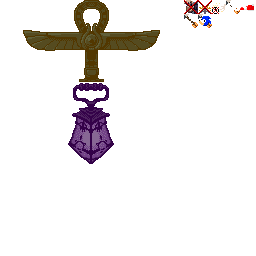
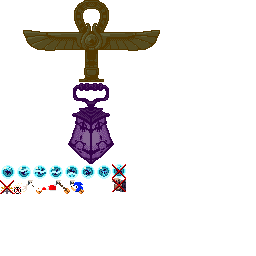
Added sprite for TeleporterOrb

Changed region(s): [[0.0, 0.625, 0.5, 0.7812], [0.7188, 0.0, 0.9062, 0.125], [0.9062, 0.0, 1.0, 0.0625]]

diff --git a/BartizanMod/BartizanModModule.cs b/BartizanMod/BartizanModModule.cs
@@ -15,6 +15,7 @@ namespace BartizanMod;
 public class BartizanModModule : FortModule, ITowerPatcher
 {
     public static Atlas BartizanAtlas;
+    public static SpriteData BartizanData;
     public static BartizanModModule Instance;
 
     public override Type SettingsType => typeof(BartizanModSettings);
@@ -30,6 +31,7 @@ public class BartizanModModule : FortModule, ITowerPatcher
     public override void LoadContent()
     {
         BartizanAtlas = Content.LoadAtlas("Atlas/atlas.xml", "Atlas/atlas.png");
+        BartizanData = Content.LoadSpriteData("Atlas/SpriteData/spriteData.xml", BartizanAtlas);
     }
 
     public override void OnVariantsRegister(VariantManager manager, bool noPerPlayer = false) 
@@ -47,7 +49,7 @@ public class BartizanModModule : FortModule, ITowerPatcher
 
         manager.AddPickupVariant(
             RiseCore.PickupRegistry["Bartizan/TeleporterOrb"], 
-            VariantManager.GetVariantIconFromName("NoHeadBounce", BartizanAtlas)
+            VariantManager.GetVariantIconFromName("NoTeleporterOrb", BartizanAtlas)
         );
 
         manager.AddArrowVariants(
@@ -101,14 +103,18 @@ public class BartizanModModule : FortModule, ITowerPatcher
     public void PatchTower(OnTower tower)
     {
         tower.VERSUS_Thornwood
-            .IncreaseTreasureRates(RiseCore.PickupRegistry["Bartizan/TriggerBramble"].ID);
+            .IncreaseTreasureRates("Bartizan/TriggerBramble");
 
         tower.VERSUS_Dreadwood
-            .IncreaseTreasureRates(RiseCore.PickupRegistry["Bartizan/TriggerBramble"].ID, 2);
+            .IncreaseTreasureRates("Bartizan/TriggerBramble", 2);
+        
+        tower.VERSUS_All(x => {
+            x.IncreaseTreasureRates("Bartizan/TeleporterOrb");
+        });
     }
 }
 
-[CustomPickup("Bartizan/TeleporterOrb")]
+[CustomPickup("Bartizan/TeleporterOrb", Chance = 1f)]
 public class TeleporterOrb : CustomOrbPickup 
 {
     public TeleporterOrb(Vector2 position, Vector2 targetPosition) : base(position, targetPosition)
@@ -131,7 +137,9 @@ public class TeleporterOrb : CustomOrbPickup
 
     public override CustomOrbInfo CreateInfo()
     {
-        return new CustomOrbInfo(null, Color.Aqua, null);
+        var sprite = BartizanModModule.BartizanData.GetSpriteInt("TeleporterOrb");
+        return new CustomOrbInfo(
+            new Hitbox(16, 16, -8, -8), Color.Aqua, sprite);
     }
 }
 
@@ -151,7 +159,7 @@ public class TriggerBrambleArrow : TriggerArrow
         graphic.Play(0, false);
         graphic.CenterOrigin();
         var arrowInfo = ArrowInfo.Create(graphic, TFGame.Atlas["player/arrowHUD/brambleArrow"]);
-        arrowInfo.Name = "Trigger Bramble Arrows";
+        arrowInfo.Name = "TriggerBramble Arrows";
         return arrowInfo;
     }
 
